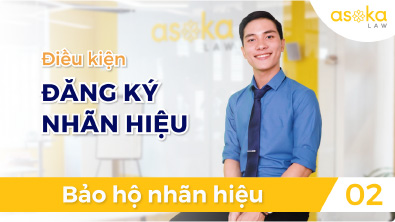
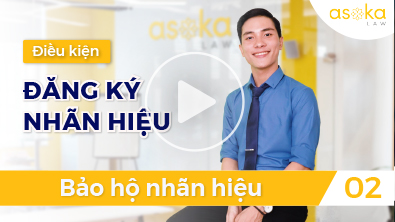
fix trang chu

diff --git a/src/app/dknh/dknhwhychoose/dknhwhychoose.component.html b/src/app/dknh/dknhwhychoose/dknhwhychoose.component.html
@@ -12,46 +12,41 @@
             <div class="col-md-1">
             </div>
             <div class="col-md-5">
-                <img data-target="#bb42zrvKOWQ" data-toggle="modal" class="Sub" src="/assets/media/DKNH/effective-content/Asset 24.png">
+                <img style="cursor: pointer" data-target="#bb42zrvKOWQ" data-toggle="modal" class="Sub" src="/assets/media/DKNH/effective-content/Asset 24.png">
             </div>
             <div class="col-md-5 flex-center-vertically SubTitle titlerecord">
                 <div class="content-record float-right">
                     <div class="float-left ">
                         <img src="/assets/media/DKNH/effective-content/Asset 23.svg">
                     </div>
-                    <p>Chúng tôi miễn phí kiểm tra nhãn hiệu của bạn đã bị trùng/gây nhầm lẫn với
-                        các bên khác hay chưa, độ chính xác lên đến 90%.</p>
+                    <p>Chúng tôi miễn phí kiểm tra nhãn hiệu của bạn đã bị trùng/gây nhầm lẫn với các bên khác hay chưa, độ chính xác lên đến 90%.</p>
                 </div>
                 <div class="content-record float-right">
                     <div class="float-left">
                         <img src="/assets/media/DKNH/effective-content/Asset 23.svg">
                     </div>
-                    <p>Quy trình đặc biệt thần tốc:<b>"24 giờ & 3 ngày"</b>chỉ có tại Asoka Law: xử lý và
-                        nộp đơn trong vòng 24 giờ; gửi trả hồ sơ trong vòng 03 ngày. </p>
+                    <p>Quy trình đặc biệt thần tốc:<b>"24 giờ & 3 ngày"</b>chỉ có tại Asoka Law: xử lý và nộp đơn trong vòng 24 giờ; gửi trả hồ sơ trong vòng 03 ngày. </p>
                 </div>
 
                 <div class="content-record float-right">
                     <div class="float-left">
                         <img src="/assets/media/DKNH/effective-content/Asset 23.svg">
                     </div>
-                    <p>Asoka Law là hãng Luật chính danh, luật sư 12 năm kinh nghiệm, hỗ trợ đại
-                        diện giải quyết tranh chấp, khiếu nại, khiếu kiện trong quá trình nộp đơn.</p>
+                    <p>Asoka Law là hãng Luật chính danh, luật sư 12 năm kinh nghiệm, hỗ trợ đại diện giải quyết tranh chấp, khiếu nại, khiếu kiện trong quá trình nộp đơn.</p>
                 </div>
 
                 <div class="content-record float-right">
                     <div class="float-left">
                         <img src="/assets/media/DKNH/effective-content/Asset 23.svg">
                     </div>
-                    <p>Chúng tôi theo dõi sát sao và cập nhật kịp thời hồ sơ trong suốt 1 - 1,5 năm xét
-                        duyệt, bạn không cần nhớ các bước xử lý của Cục Sở Hữu Trí Tuệ.</p>
+                    <p>Chúng tôi theo dõi sát sao và cập nhật kịp thời hồ sơ trong suốt 1 - 1,5 năm xét duyệt, bạn không cần nhớ các bước xử lý của Cục Sở Hữu Trí Tuệ.</p>
                 </div>
 
                 <div class="content-record">
                     <div class="float-left">
                         <img src="/assets/media/DKNH/effective-content/Asset 23.svg">
                     </div>
-                    <p>Chi phí ủy quyền cho Asoka Law tương đối thấp so với thị trường, chất lượng
-                        phục vụ được 98% khách hàng đã sử dụng dịch vụ đánh giá hài lòng.</p>
+                    <p>Chi phí ủy quyền cho Asoka Law tương đối thấp so với thị trường, chất lượng phục vụ được 98% khách hàng đã sử dụng dịch vụ đánh giá hài lòng.</p>
                 </div>
             </div>
             <div class="col-md-1">

diff --git a/src/app/servicemostused/servicemostused.component.html b/src/app/servicemostused/servicemostused.component.html
@@ -58,7 +58,7 @@
         <div class="service-item ">
           <div class="content-2">
             <img src="/assets/media/landingpage/DVPB/PLSK.svg">
-            <p class="title" style="cursor: pointer" routerLink="/phap-ly-su-kien">Pháp lý sự kiên</p>
+            <p class="title" style="cursor: pointer" routerLink="/phap-ly-su-kien">Pháp lý sự kiện</p>
             <p class="sub-title"><b>Đã sử dụng:</b> 30 lượt</p>
             <p class="sub-title"><b>Giá phí từ:</b> 6.000.000 VNĐ</p>
           </div>
@@ -99,7 +99,7 @@
       </div>
       <div class="col-6 text-center">
         <img class="img-fluid" src="/assets/media/landingpage/DVPB/PLSK.svg">
-        <p class="title"><b>Pháp lý sự kiên</b></p>
+        <p class="title"><b>Pháp lý sự kiện</b></p>
       </div>
       <div class="col-6 text-center">
         <img class="img-fluid" src="/assets/media/landingpage/DVPB/XLTT.svg">

diff --git a/src/app/app.module.ts b/src/app/app.module.ts
@@ -83,6 +83,7 @@ import { FormFieldUploadComponent } from './service/form-field-upload/form-field
 import { FormGroupFieldInfoComponent } from './service/form-group-field-info/form-group-field-info.component';
 import {GlobalModule} from "./global/global.module";
 import { DknhVideosComponent } from './dknh/dknh-videos/dknh-videos.component';
+import {ClickOutsideModule} from "ng-click-outside";
 
 const routes: Routes = [
     {path: '', component: HomeComponent},

diff --git a/src/app/global/modal-video/modal-video.component.ts b/src/app/global/modal-video/modal-video.component.ts
@@ -19,6 +19,10 @@ export class ModalVideoComponent implements OnInit {
         this.link = this._sanitizer.bypassSecurityTrustResourceUrl('https://www.youtube.com/embed/' + this.dataid);
     }
 
+    test(e) {
+        console.log(e);
+    }
+
     reloadIframe() {
         const $if = $('#' + this.dataid).find('iframe');
         $if.attr('src', $if.attr('src'));

diff --git a/src/app/global/modal-video/modal-video.component.html b/src/app/global/modal-video/modal-video.component.html
@@ -1,4 +1,4 @@
-<div class="modal fade" id="{{dataid}}">
+<div class="modal fade" id="{{dataid}}" data-backdrop="static" data-keyboard="false">
     <div class="modal-dialog" role="document">
         <div class="modal-content">
             <div class="modal-body">
